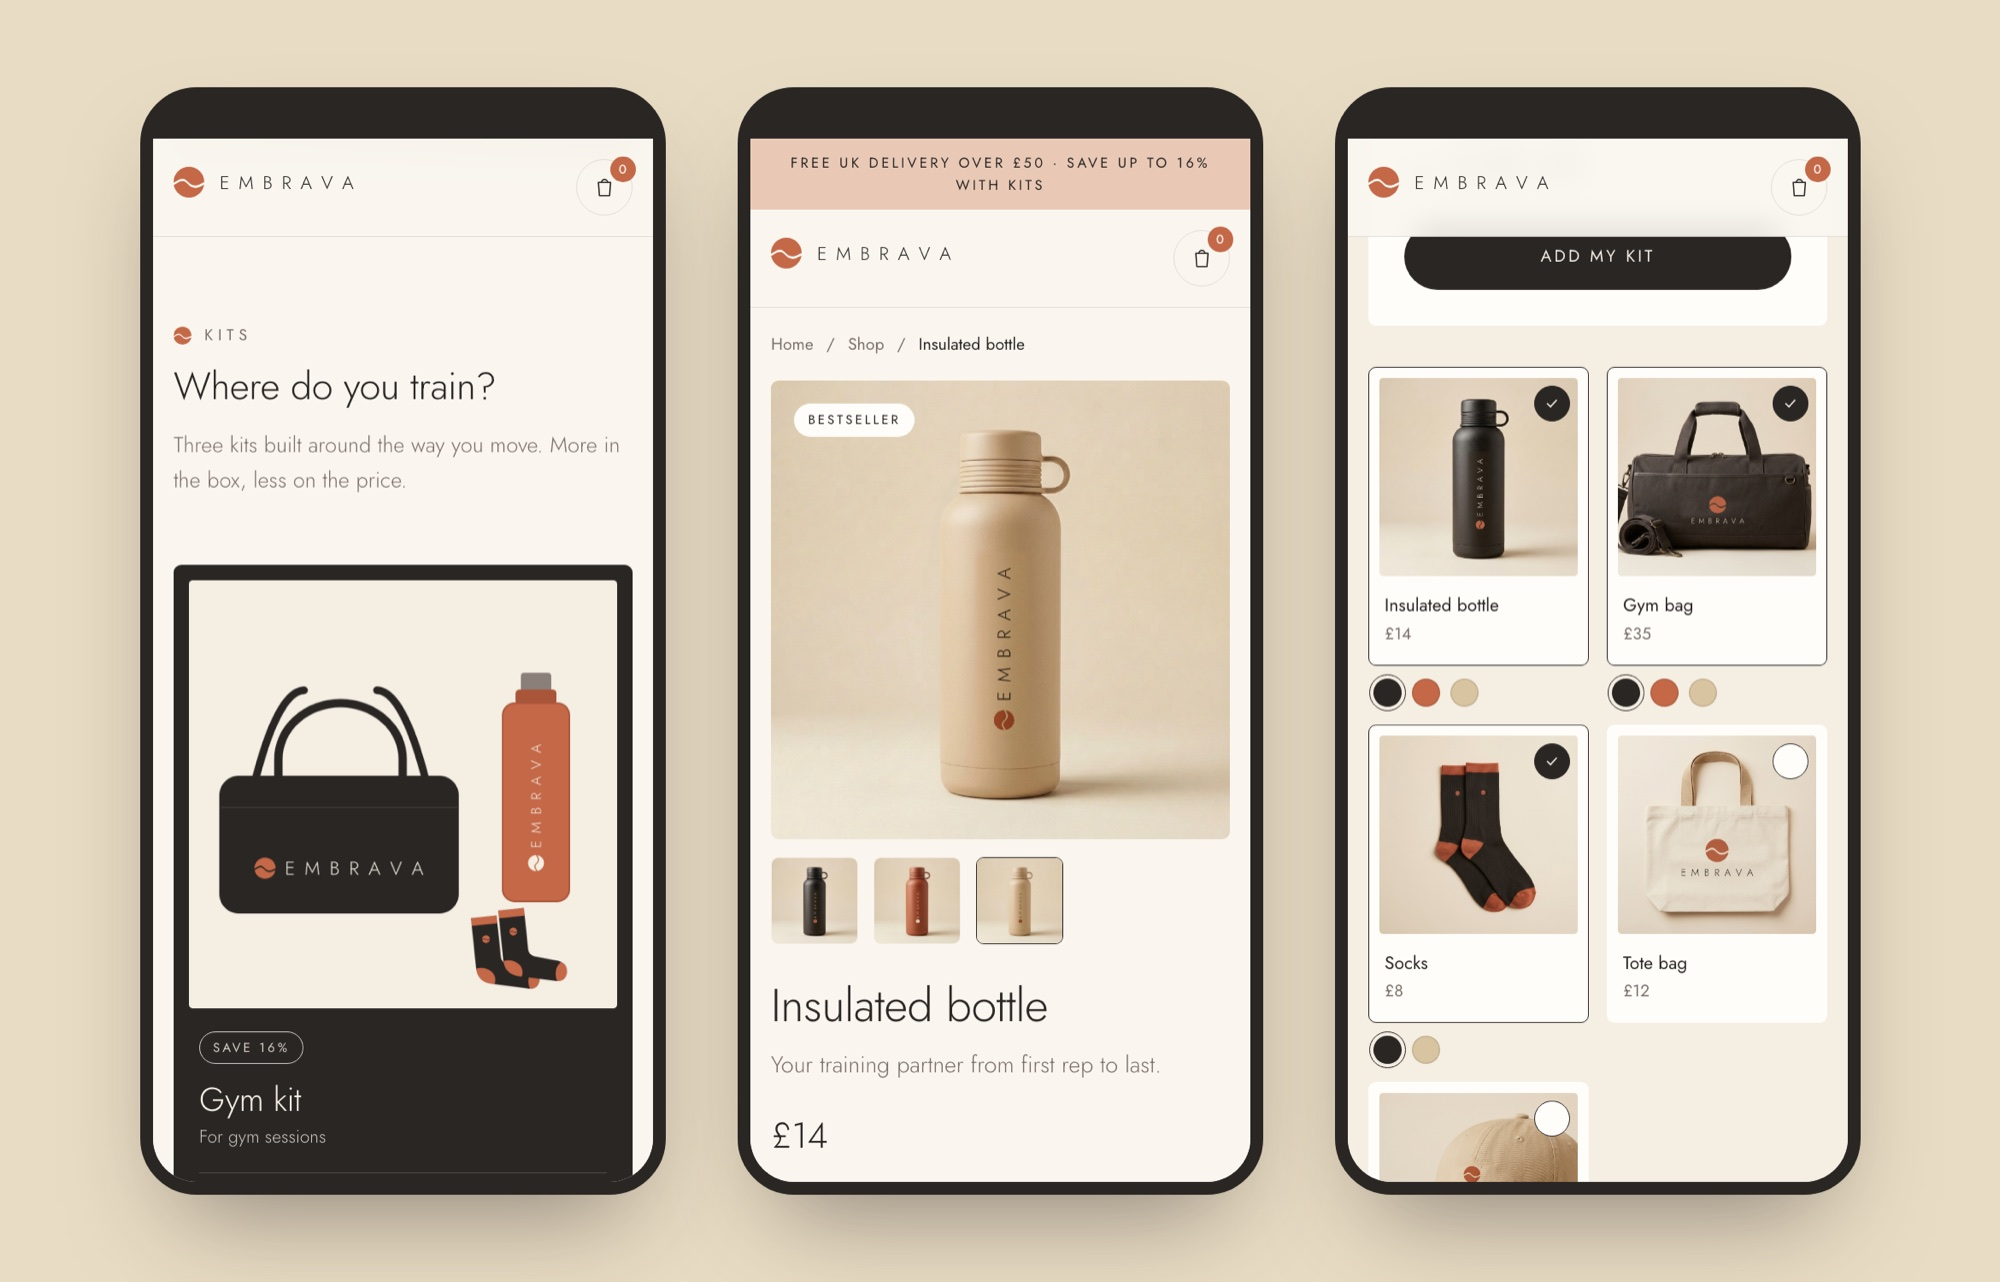
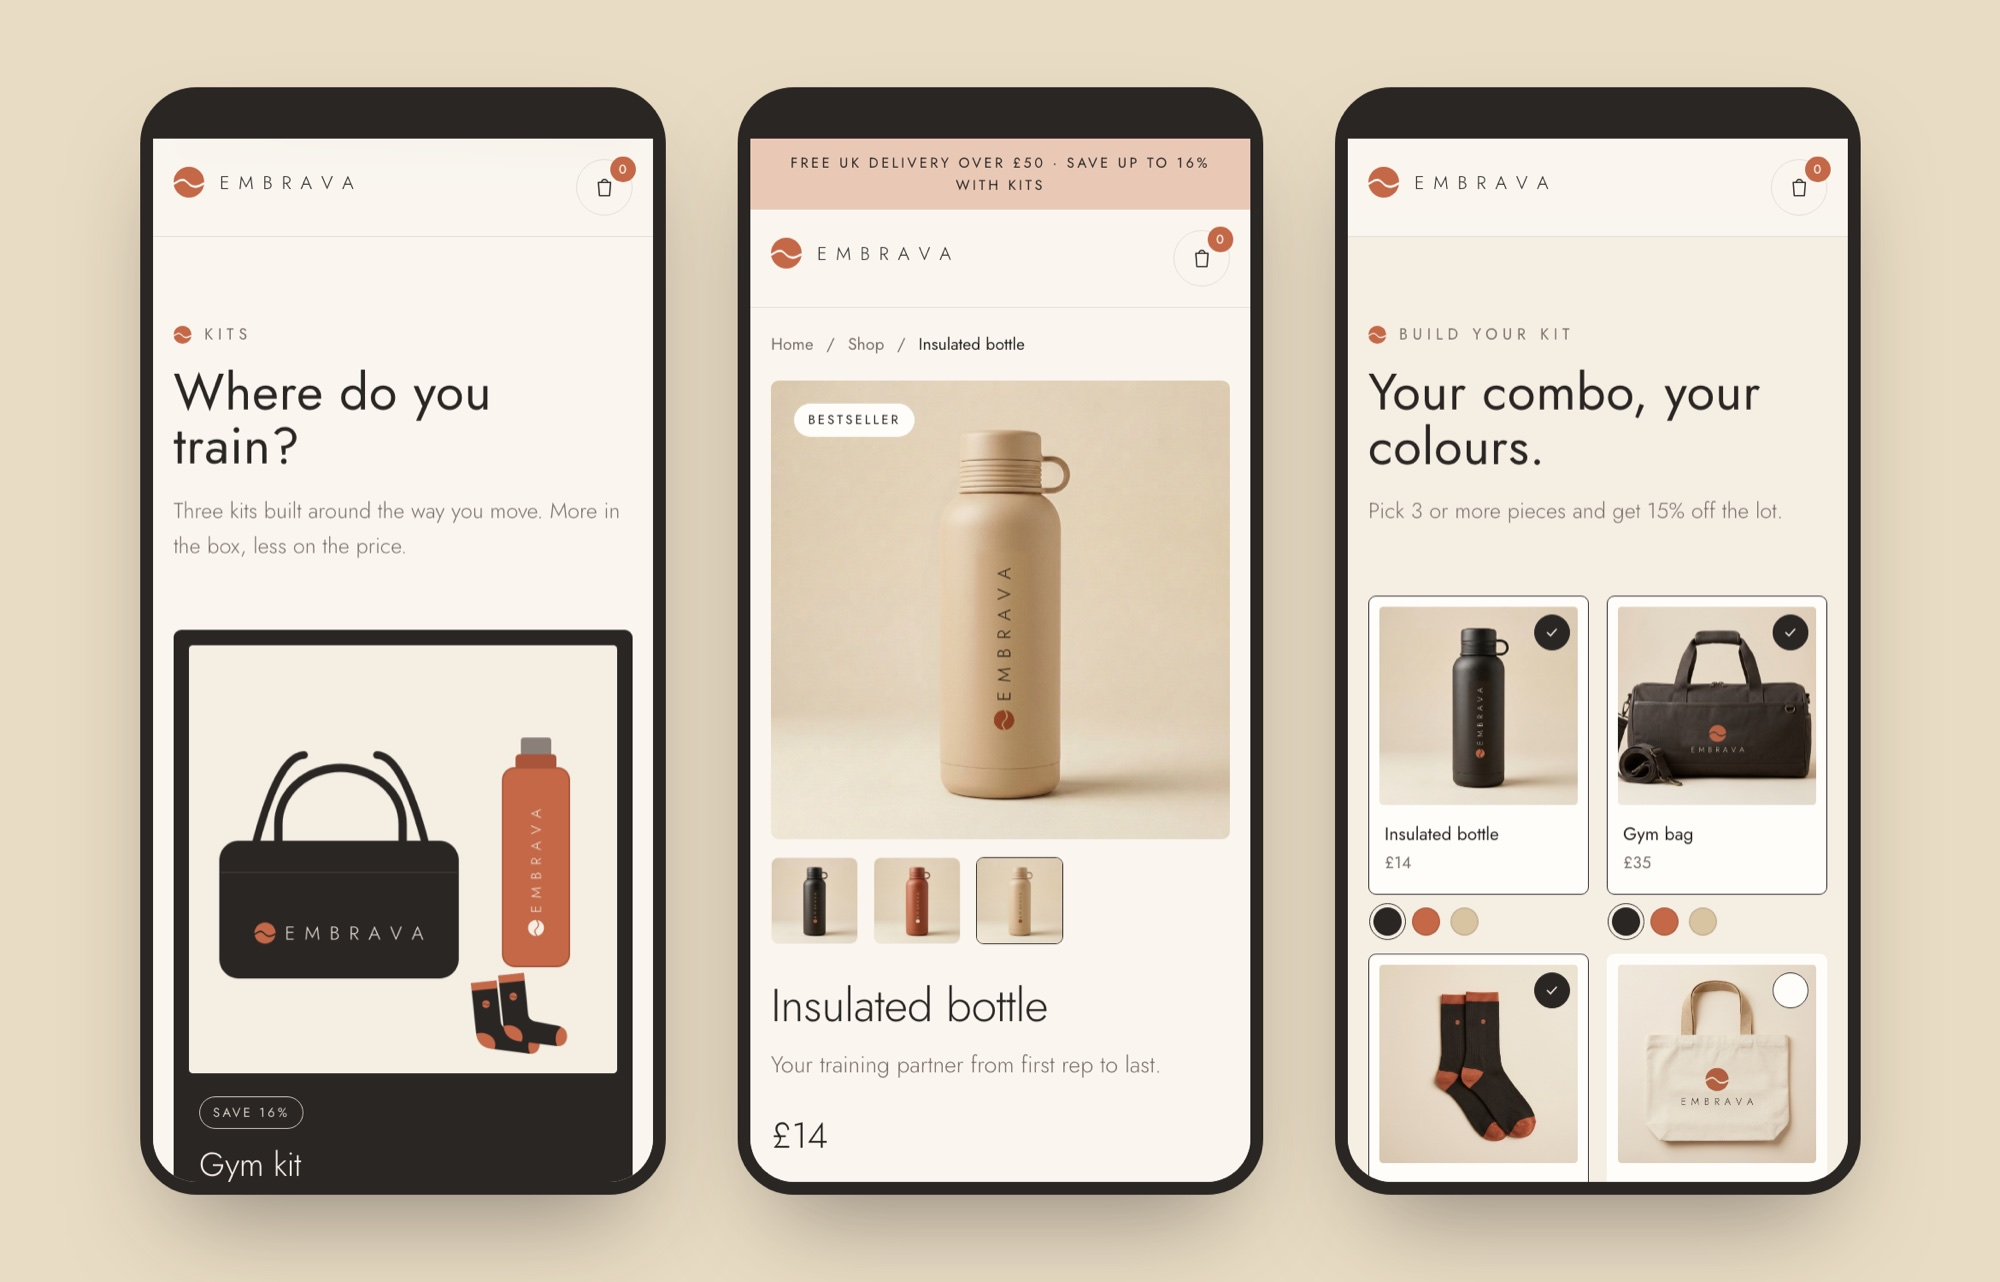
Use the hero headline style for every section title and lay out Build your kit like the other sections

Changed region(s): [[0.682, 0.1872, 0.93, 0.936], [0.062, 0.2808, 0.341, 0.936], [0.248, 0.3432, 0.31, 0.4056]]

diff --git a/styles.css b/styles.css
@@ -119,7 +119,9 @@ strong { font-weight: 500; }
 .hero { position: relative; padding: 56px 0 80px; overflow: hidden; }
 .hero__inner { position: relative; z-index: 1; display: grid; grid-template-columns: .85fr 1.15fr; gap: 28px; align-items: stretch; }
 .hero__copy { display: flex; flex-direction: column; justify-content: center; background: var(--surface-2); border-radius: var(--radius); padding: 48px 44px; }
-.hero h1 { font-size: clamp(40px, 4.8vw, 64px); font-weight: 400; letter-spacing: 0.01em; line-height: 1.06; margin-bottom: 24px; }
+/* One display style for the hero and every section title */
+.hero h1, .section__head h2, .gift__copy h2 { font-size: clamp(40px, 4.8vw, 64px); font-weight: 400; letter-spacing: 0.01em; line-height: 1.06; }
+.hero h1 { margin-bottom: 24px; }
 .hero__lead { font-size: 17px; font-weight: 400; color: #5F5650; max-width: 28em; margin: 0 0 36px; }
 .hero__ctas { display: flex; gap: 12px; flex-wrap: wrap; }
 .hero__swatches { list-style: none; padding: 0; margin: 44px 0 0; display: flex; gap: 22px; flex-wrap: wrap; font-size: 11px; letter-spacing: .18em; text-transform: uppercase; color: var(--muted); }
@@ -141,7 +143,7 @@ strong { font-weight: 500; }
 .section { padding: 112px 0; }
 .section--tight { padding: 56px 0; }
 .section--sand { background: var(--surface-2); }
-.section__head { margin-bottom: 52px; max-width: 640px; }
+.section__head { margin-bottom: 52px; max-width: 780px; }
 .section__head--row { display: flex; justify-content: space-between; align-items: flex-end; gap: 24px; max-width: none; flex-wrap: wrap; }
 .section__sub { color: var(--muted); font-size: 17px; font-weight: 300; margin: 16px 0 0; }
 .section--sand .section__sub { color: var(--muted); }
@@ -228,9 +230,8 @@ strong { font-weight: 500; }
 .add-btn:hover { background: var(--dark); color: var(--on-dark); }
 
 /* Builder */
-.builder { display: grid; grid-template-columns: 380px 1fr; gap: 56px; align-items: start; }
-.builder__intro { position: sticky; top: 100px; }
-.builder__summary { margin-top: 36px; background: var(--surface); border-radius: var(--radius); padding: 28px; }
+.builder { display: grid; grid-template-columns: 1fr 340px; gap: 32px; align-items: start; }
+.builder__summary { position: sticky; top: 100px; background: var(--surface); border-radius: var(--radius); padding: 28px; }
 .builder__progress { height: 3px; border-radius: 2px; background: var(--surface-2); overflow: hidden; }
 .builder__progress span { display: block; height: 100%; width: 0; background: var(--terracotta); transition: width .3s; }
 .builder__summary p { font-size: 14px; color: var(--muted); margin: 12px 0 8px; }
@@ -349,7 +350,7 @@ strong { font-weight: 500; }
 @media (max-width: 1080px) {
   .kits { grid-template-columns: repeat(2, 1fr); }
   .builder { grid-template-columns: 1fr; gap: 32px; }
-  .builder__intro { position: static; }
+  .builder__summary { position: static; }
 }
 @media (max-width: 860px) {
   .nav { display: none; }

diff --git a/index.html b/index.html
@@ -104,12 +104,15 @@
 
   <!-- BUILD YOUR KIT -->
   <section class="section section--sand" id="build">
-    <div class="wrap builder">
-      <div class="builder__intro">
+    <div class="wrap">
+      <div class="section__head">
         <p class="eyebrow eyebrow--wave"><svg viewBox="0 0 164 164" aria-hidden="true"><use href="#symbol"/></svg>Build your kit</p>
-        <h2>Your combo,<br>your colours.</h2>
+        <h2>Your combo, your colours.</h2>
         <p class="section__sub">Pick 3 or more pieces and get 15% off the lot.</p>
-        <div class="builder__summary">
+      </div>
+      <div class="builder">
+        <div class="builder__picks" data-builder></div>
+        <aside class="builder__summary" aria-label="Your kit">
           <div class="builder__progress"><span data-builder-bar></span></div>
           <p data-builder-status>Pick 3 pieces to unlock your discount</p>
           <div class="builder__totals">
@@ -117,9 +120,8 @@
             <span class="price-big" data-builder-total>£0</span>
           </div>
           <button class="btn btn--dark btn--block" type="button" data-builder-add disabled>Add my kit</button>
-        </div>
+        </aside>
       </div>
-      <div class="builder__picks" data-builder></div>
     </div>
   </section>
 

diff --git a/case-study.html b/case-study.html
@@ -205,7 +205,7 @@
       </div>
       <div class="cs-split__body">
         <div class="cs-scroll" tabindex="0" aria-label="Full homepage screenshot, scrollable">
-          <img src="assets/case/home-full.jpg" alt="Full-length screenshot of the Embrava homepage: hero, kits, brand band, shop grid, build your kit, gift card and footer" width="1200" height="4470" loading="lazy">
+          <img src="assets/case/home-full.jpg" alt="Full-length screenshot of the Embrava homepage: hero, kits, brand band, shop grid, build your kit, gift card and footer" width="1200" height="4697" loading="lazy">
         </div>
       </div>
     </div>
